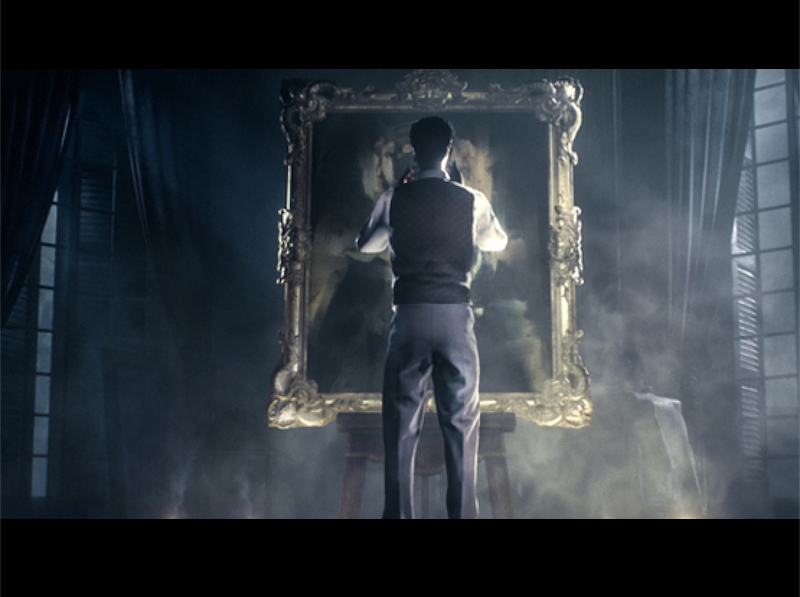
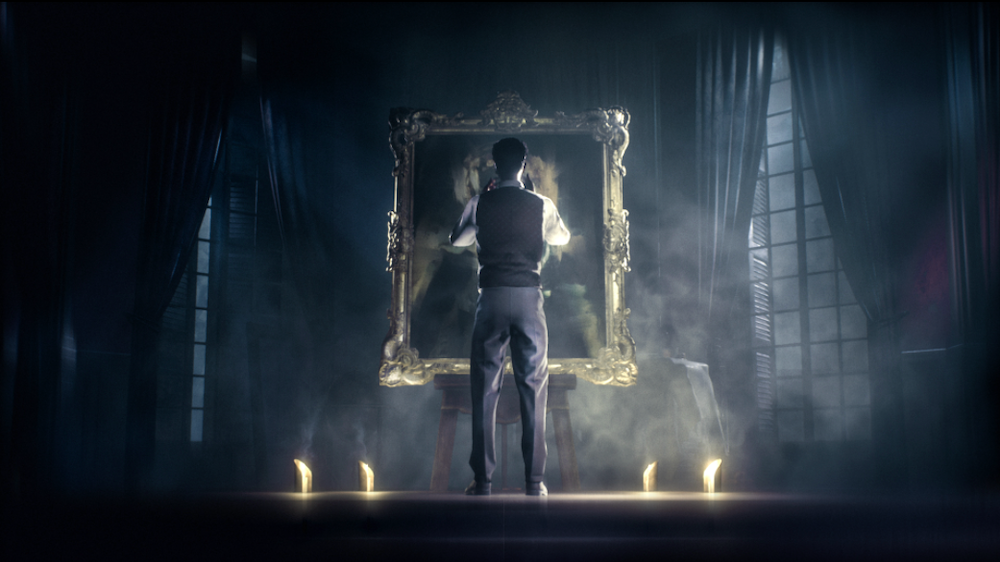
default window size 1000 x 700

diff --git a/scenes.py b/scenes.py
@@ -11,50 +11,51 @@ class Display_Scene(Init_Game):
 
     def start_screen(self):
         #display start screen
-        self.PSEUDO_SCREEN.blit(self.START_SCREEN, (0, 0))
-        self.PSEUDO_SCREEN.blit(self.START_BUTTON, (350, 470))
+        self.PSEUDO_SCREEN.blit(self.START_SCREEN, (0, 70))
+        self.PSEUDO_SCREEN.blit(self.TITLE, (50, 50))
+        self.PSEUDO_SCREEN.blit(self.START_BUTTON, (self.X/2.25, self.Y/1.23))
 
         pygame.display.update()
 
     def scene_one(self):   
         #display scene one 
         self.PSEUDO_SCREEN.fill(self.BLACK)
-        self.PSEUDO_SCREEN.blit(self.PORTRAIT_SCENE, (0, 0))
-        self.PSEUDO_SCREEN.blit(self.DIAL_BOX, (30, 380))
+        self.PSEUDO_SCREEN.blit(self.PORTRAIT_SCENE, (0, 70))
+        self.PSEUDO_SCREEN.blit(self.DIAL_BOX, (60, 430))
 
         #display dialogue
         line1 = self.FONT.render('[Insert Dialogue]', True, self.WHITE)
         line2 = self.FONT.render('[Insert More Dialogue]', True, self.WHITE)
-        self.PSEUDO_SCREEN.blit(line1, (170, 450))
-        self.PSEUDO_SCREEN.blit(line2, (170, 500))
+        self.PSEUDO_SCREEN.blit(line1, (190, 510))
+        self.PSEUDO_SCREEN.blit(line2, (190, 560))
 
         pygame.display.update()
 
     def scene_two(self):
         #display scene two
         self.PSEUDO_SCREEN.fill(self.BLACK)
-        self.PSEUDO_SCREEN.blit(self.HORROR_IN_CLAY, (0, 0))
-        self.PSEUDO_SCREEN.blit(self.DIAL_BOX, (30, 380))
+        self.PSEUDO_SCREEN.blit(self.HORROR_IN_CLAY, (0, 60))
+        self.PSEUDO_SCREEN.blit(self.DIAL_BOX, (60, 430))
 
         #display dialogue
         line1 = self.FONT.render('[Insert Dialogue]', True, self.WHITE)
         line2 = self.FONT.render('[Insert More Dialogue]', True, self.WHITE)
-        self.PSEUDO_SCREEN.blit(line1, (170, 450))
-        self.PSEUDO_SCREEN.blit(line2, (170, 500))
+        self.PSEUDO_SCREEN.blit(line1, (190, 510))
+        self.PSEUDO_SCREEN.blit(line2, (190, 560))
 
         pygame.display.update()
 
     def scene_three(self):
         #display scene three
         self.PSEUDO_SCREEN.fill(self.BLACK)
-        self.PSEUDO_SCREEN.blit(self.UNIVERSITY, (0, 0))
-        self.PSEUDO_SCREEN.blit(self.DIAL_BOX, (30, 380))
+        self.PSEUDO_SCREEN.blit(self.UNIVERSITY, (0, 80))
+        self.PSEUDO_SCREEN.blit(self.DIAL_BOX, (60, 430))
 
         #display dialogue
         line1 = self.FONT.render('[Insert Dialogue]', True, self.WHITE)
         line2 = self.FONT.render('[Insert More Dialogue]', True, self.WHITE)
-        self.PSEUDO_SCREEN.blit(line1, (170, 450))
-        self.PSEUDO_SCREEN.blit(line2, (170, 500))
+        self.PSEUDO_SCREEN.blit(line1, (190, 510))
+        self.PSEUDO_SCREEN.blit(line2, (190, 560))
 
         pygame.display.update()
 

diff --git a/initgame.py b/initgame.py
@@ -6,30 +6,30 @@ pygame.mixer.init()
 
 class Init_Game():
     #create game window
-    X, Y = 800, 600
+    X, Y = 1000, 700
     SCREEN = pygame.display.set_mode((X, Y), pygame.RESIZABLE)
     pygame.display.set_caption("The Call of Cthulhu - Interactive Horror Game")
     ICON = pygame.image.load("assets/icon.png")
     pygame.display.set_icon(ICON)
 
     #load buttons and icons
-    TITLE = pygame.image.load("assets/mainTitle.png")
+    TITLE = pygame.image.load("assets/title.png")
     START_BUTTON = pygame.image.load("assets/startButton.png")
     DIAL_BOX = pygame.image.load("assets/rectangle.png")
 
     #load background images
     START_SCREEN = pygame.image.load("assets/startBG.png")
     PORTRAIT_SCENE = pygame.image.load("assets/portrait.png")
-    HORROR_IN_CLAY = pygame.image.load("assets/horrorInClay.jpg")
-    UNIVERSITY = pygame.image.load("assets/UNIVERSITY.jpg")
+    HORROR_IN_CLAY = pygame.image.load("assets/horrorInClay.png")
+    UNIVERSITY = pygame.image.load("assets/university.png")
 
     #declare colors and font
-    FONT = pygame.font.SysFont('Rockwell', 16)
+    FONT = pygame.font.SysFont('Rockwell', 19)
     BLACK = (0, 0, 0)
     WHITE = (255, 255, 255)
 
     #set item transparency
-    DIAL_BOX.set_alpha(190)
+    DIAL_BOX.set_alpha(220)
     START_BUTTON.set_alpha(150)
 
     #set sound fx
@@ -42,7 +42,7 @@ class Init_Game():
     COLLISION_SCREEN = pygame.Surface((X, Y))
     COLLISION_SCREEN.set_alpha(0)
 
-    #set collision test variables
+    #collision items
     w, h = pygame.display.get_surface().get_size()
-    START_BUTTON_POS = pygame.Rect(w/2.3, h/1.28, w/8, h/15)
+    START_BUTTON_POS = pygame.Rect(w/2.25, h/1.23, w/8.3, h/14)
 

diff --git a/gamefeatures.py b/gamefeatures.py
@@ -40,15 +40,18 @@ class Game_Features(Display_Scene):
                 self.SCREEN = pygame.display.set_mode((event.w, event.h), pygame.RESIZABLE)
                 self.SCREEN.blit(pygame.transform.scale(self.PSEUDO_SCREEN, (event.w, event.h)), (0, 0))
                 if scene == 'start_screen':
-                    self.START_BUTTON_POS = pygame.Rect(event.w/2.3, event.h/1.28, event.w/8, event.h/15)
+                    self.START_BUTTON_POS = pygame.Rect(event.w/2.25, event.h/1.23, event.w/8.3, event.h/14)
                     pygame.draw.rect(self.COLLISION_SCREEN, self.WHITE, self.START_BUTTON_POS, 3)
+                    #self.SCREEN.blit(pygame.transform.scale(self.COLLISION_SCREEN, (event.w, event.h)), (0, 0))
             #if window has been resized 
             elif self.WIN_RESIZED == True:
                 w, h = pygame.display.get_surface().get_size()
                 self.SCREEN.blit(pygame.transform.scale(self.PSEUDO_SCREEN, (w, h)), (0, 0))
                 if scene == 'start_screen':
-                    self.START_BUTTON_POS = pygame.Rect(w/2.3, h/1.28, w/8, h/15)
+                    #visible screen that scales to the size of window
+                    self.START_BUTTON_POS = pygame.Rect(w/2.25, h/1.23, w/8.3, h/14)
                     pygame.draw.rect(self.COLLISION_SCREEN, self.WHITE, self.START_BUTTON_POS, 3)
+                    #self.SCREEN.blit(pygame.transform.scale(self.COLLISION_SCREEN, (w, h)), (0, 0))
             #more specific actions per scene
             match scene:
                 case 'start_screen':

diff --git a/README.md b/README.md
@@ -2,7 +2,7 @@
 
 
 <img
-    src = "assets/readme_icon.png"
+    src = "assets/icon.png"
     align = "right"
     width = "65 px"
 />
